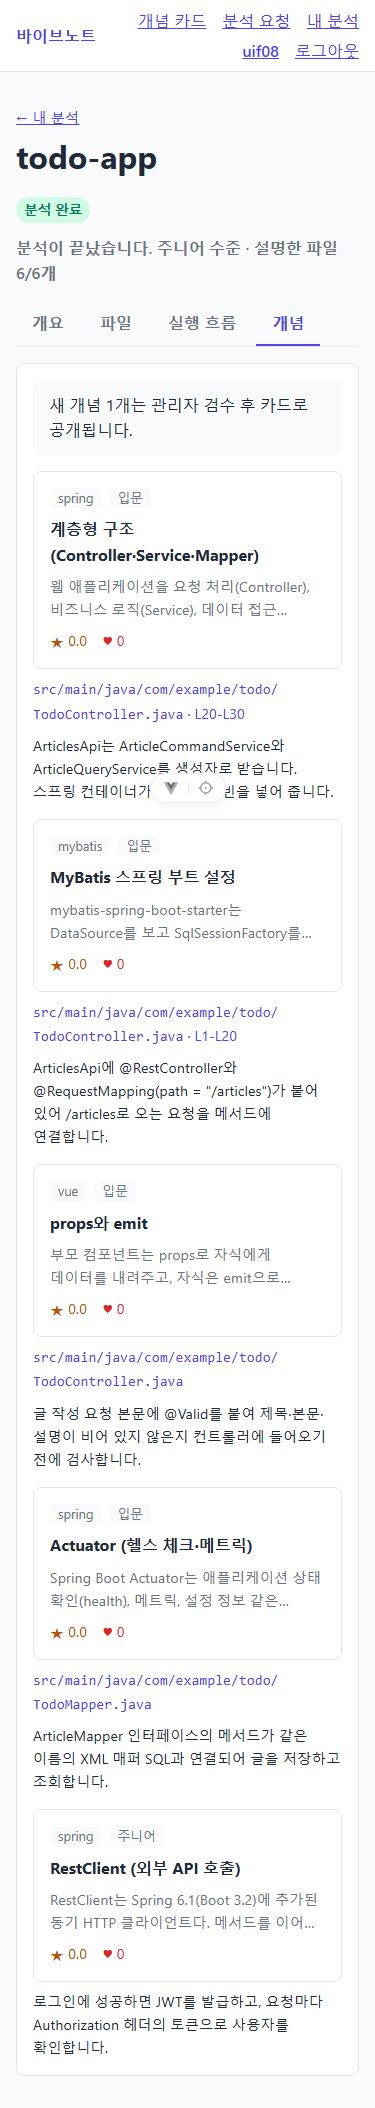
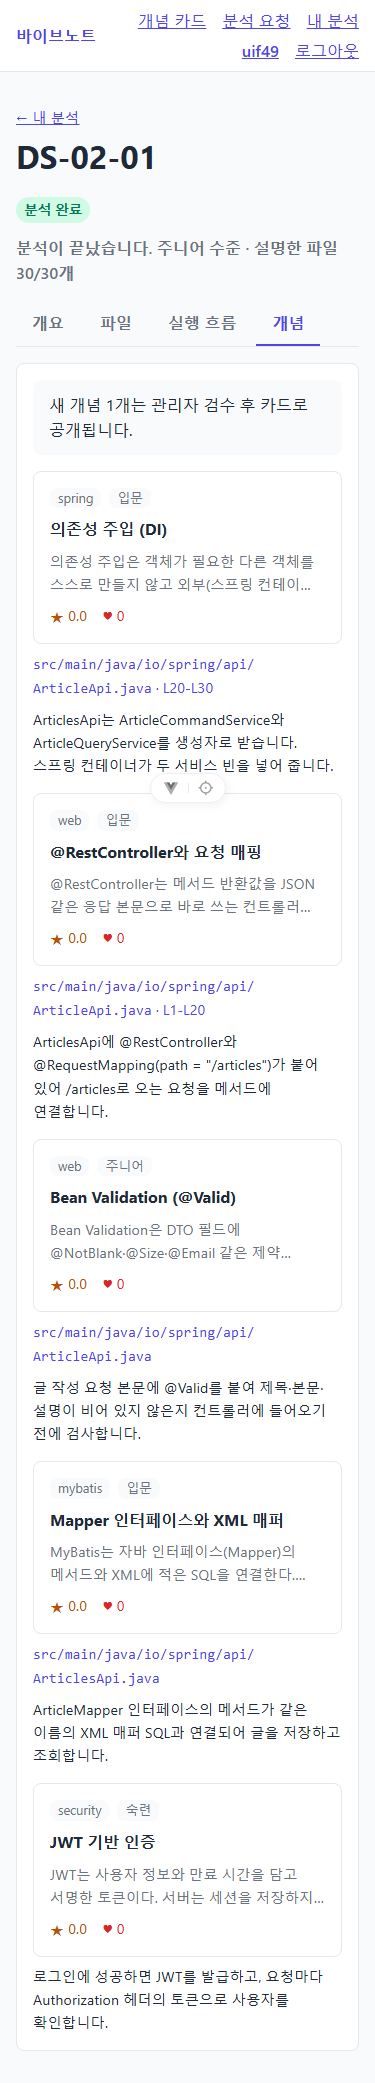
docs(F-08): SC-07 개념 탭 스크린샷 다시 찍기 (#49)
DS-02-01 ZIP을 mock LLM으로 분석해 카드와 맥락 문장이 맞는 화면으로
바꾸고, 화면 설계서의 스크린샷 설명을 고친다.

diff --git a/docs/산출물/06-화면설계서.md b/docs/산출물/06-화면설계서.md
@@ -150,7 +150,7 @@ flowchart LR
 - 구성: 공개 카드마다 `ConceptCard`(카테고리·난이도·이름·요약·별점·찜, 누르면 `/concepts/{id}` 상세 F-10) + 그 아래 위치("파일 경로 · L12-L30", 누르면 파일 탭에서 그 파일 선택) + 맥락 문장. 파일이 없는 개념은 위치 줄을 그리지 않는다
 - 상태별 UI: 로딩 "개념을 불러오는 중…" / 검수 대기 초안이 있으면 "새 개념 n개는 관리자 검수 후 카드로 공개됩니다." / 연결 없음 "이 분석에서 연결된 개념 카드가 없습니다."(추출 실패도 이 문구) / 실패는 서버 `message` + "다시 시도"
 - 모바일: 카드 한 열(데스크톱은 폭에 따라 2~3열 그리드), 긴 경로는 `/` 뒤에서 줄바꿈
-- 스크린샷: mock LLM fixture(시드 카드 id로 연결)로 만든 분석이라 맥락 문장이 샘플 코드와 맞지 않고, 시드 적용 이력이 다른 로컬 DB에서는 카드와 맥락 문장도 어긋날 수 있다 (ui-check: 375px 가로 스크롤·콘솔 에러 없음)
+- 스크린샷: dev 저장소(DS-02-01 realworld) ZIP을 mock LLM으로 분석한 결과다. fixture는 시드 카드를 이름으로 가리키고 Mock이 카드 목록에서 id로 바꾸므로(#49) DB가 달라도 카드와 맥락 문장이 맞는다. 위치의 파일은 fixture의 파일 번호(`fileNo`)로 정해져 맥락 문장의 파일과 다를 수 있다 (ui-check: 375px 가로 스크롤·콘솔 에러 없음)
 
 | 화면 | 데스크톱 (1280px) | 모바일 (375px) |
 |---|---|---|
